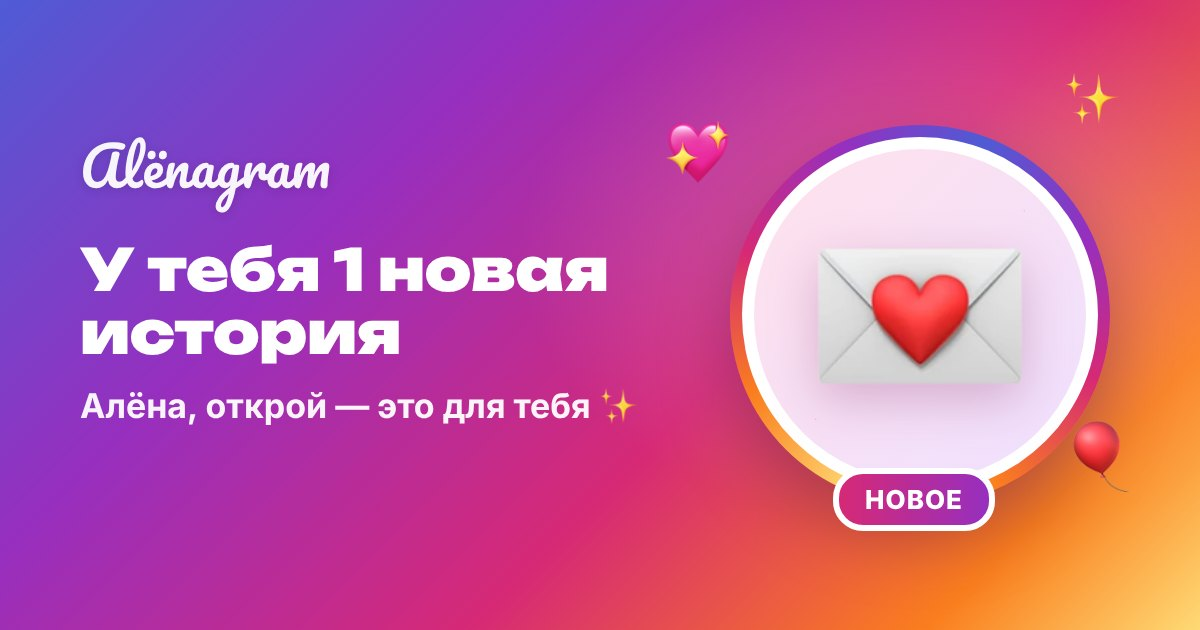
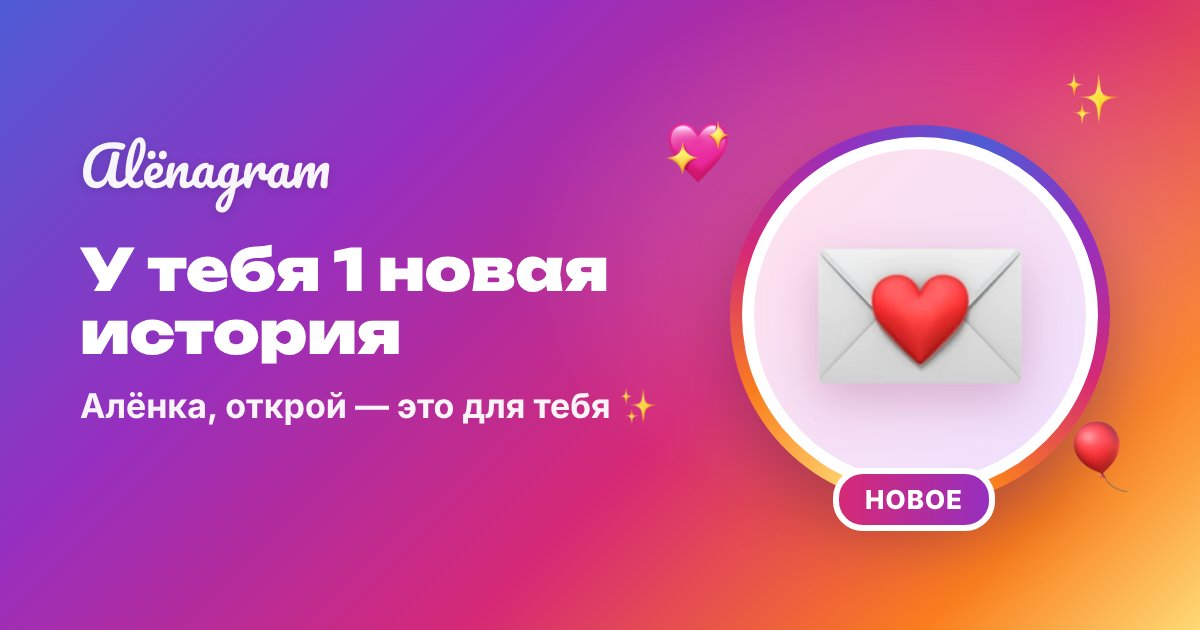
Use the name «Алёнка» everywhere on the site
Rename the birthday girl from «Алёна» to «Алёнка» in all visible texts:
config name and genitive form (lock screen, profile, intro, poll,
envelope), the letter greeting, page title, link-preview description and
the preview image, and the @alenka username. The real photo folder name
used by the Windows script stays unchanged.

Claude-Session: https://claude.ai/code/session_01TmmNb3kFXYRSt1fpxtiKNa

Changed region(s): [[0.1233, 0.6032, 0.555, 0.6937]]

diff --git a/index.html b/index.html
@@ -10,13 +10,13 @@
   <meta name="mobile-web-app-capable" content="yes">
   <meta name="apple-mobile-web-app-status-bar-style" content="black-translucent">
   <meta name="apple-mobile-web-app-title" content="Alёnagram">
-  <title>Алёна, с днём рождения! 🎂</title>
+  <title>Алёнка, с днём рождения! 🎂</title>
   <meta name="description" content="У тебя новая история 💌">
 
   <!-- Превью ссылки в Telegram/WhatsApp. Если адрес сайта другой — поменяй ссылку на картинку -->
   <meta property="og:type" content="website">
   <meta property="og:title" content="У тебя 1 новая история 💌">
-  <meta property="og:description" content="Алёна, открой — это для тебя ✨">
+  <meta property="og:description" content="Алёнка, открой — это для тебя ✨">
   <meta property="og:image" content="https://1harios.github.io/alenalove/assets/og.jpg">
   <meta property="og:image:width" content="1200">
   <meta property="og:image:height" content="630">

diff --git a/js/config.js b/js/config.js
@@ -6,9 +6,9 @@
  */
 window.CONFIG = {
   // Именинница
-  name: 'Алёна',
-  nameGenitive: 'Алёны', // «день рождения у Алёны»
-  username: 'alena', // ник в «профиле»
+  name: 'Алёнка',
+  nameGenitive: 'Алёнки', // «день рождения у Алёнки»
+  username: 'alenka', // ник в «профиле»
   birthday: '1995-10-11', // дата рождения (ГГГГ-ММ-ДД)
   avatar: '', // фото для аватарки, например 'photos/01.jpg'. Пусто = первое фото из js/photos.js
 
@@ -84,7 +84,7 @@ window.CONFIG = {
   ],
 
   // Письмо от Саши (переносы строк сохраняются)
-  letter: `Алёна, моя любимая! ❤
+  letter: `Алёнка, моя любимая! ❤
 
 С днём рождения! 🎂
 

diff --git a/js/slides.js b/js/slides.js
@@ -64,7 +64,7 @@
       render: function () {
         return '<div class="bg-anim"></div>' + floaters(['💌', '✨', '💖', '🎈', '🌸', '💫', '💕'], 10) +
           '<div class="sl sl--center">' +
-            '<div class="stk-mention intro__mention pop-in" style="--d:.15s;--r:-6deg"><b>@' + esc(C.username || 'alena') + '</b></div>' +
+            '<div class="stk-mention intro__mention pop-in" style="--d:.15s;--r:-6deg"><b>@' + esc(C.username || 'alenka') + '</b></div>' +
             '<h1 class="t-neon intro__name rise" style="--d:.35s">' + esc(C.name) + ',</h1>' +
             '<p class="t-hl rise" style="--d:.75s"><span>у меня для тебя</span><br><span>кое-что есть…</span></p>' +
             '<div class="intro__emoji rise" style="--d:1.15s"><span class="bob">🤫</span></div>' +

diff --git a/js/app.js b/js/app.js
@@ -133,7 +133,7 @@
     var since = A.since(A.metAt);
     var hasPhotos = A.photos.length > 0;
     var av = hasPhotos || C.avatar || A.hasSpecial('avatar');
-    var user = C.username || 'alena';
+    var user = C.username || 'alenka';
     var from = C.fromUsername || 'sasha';
 
     var hl = HIGHLIGHTS.filter(function (h) { return A.stories.indexOf(h.id) >= 0; }).map(function (h) {
@@ -238,7 +238,7 @@
 
   function buildFeed() {
     var fv = $('#feedView');
-    var user = C.username || 'alena';
+    var user = C.username || 'alenka';
     var av = A.photos.length > 0 || C.avatar || A.hasSpecial('avatar');
     var caps = C.photoCaptions || [];
     var info = A.birthdayInfo();

diff --git a/README.md b/README.md
@@ -1,16 +1,16 @@
-# Alёnagram 🎂 — поздравление для Алёны
+# Alёnagram 🎂 — поздравление для Алёнки
 
-Мобильный сайт-сюрприз ко дню рождения Алёны (11.10.1995) в стиле историй Instagram.
+Мобильный сайт-сюрприз ко дню рождения Алёнки (11.10.1995) в стиле историй Instagram.
 Поздравляет Саша ❤
 
 ## Что внутри
 
 Сначала открывается **экран блокировки** (обои — её фото) с уведомлением «sasha опубликовал историю специально для тебя 💌».
-Нажатие на уведомление открывает **истории**, после них можно погулять по **профилю** Алёны.
+Нажатие на уведомление открывает **истории**, после них можно погулять по **профилю** Алёнки.
 
 | № | История | Что происходит |
 |---|---------|----------------|
-| 1 | Вступление | «Алёна, у меня для тебя кое-что есть…» |
+| 1 | Вступление | «Алёнка, у меня для тебя кое-что есть…» |
 | 2 | С днём рождения! | Полароид с воздушным поцелуем, конфетти, шарики, наклейка с возрастом |
 | 3 | Опрос | «Кто сегодня самая красивая?» — оба варианта набирают по 100% 😄 |
 | 4 | Как всё началось | Скриншот из IMVU в неоновом «телефоне» + ачивка «Встретить ту самую» 🏆 |
@@ -36,7 +36,7 @@
 ## 🔒 Фото и видео зашифрованы — отправляй ссылку с ключом
 
 Репозиторий публичный, поэтому фото и видео лежат в папке `media/` **в зашифрованном виде**: открыть их на GitHub нельзя.
-Сайт расшифровывает их прямо в телефоне Алёны по ключу, который стоит в ссылке после `#k=`:
+Сайт расшифровывает их прямо в телефоне Алёнки по ключу, который стоит в ссылке после `#k=`:
 
 ```
 https://1harios.github.io/alenalove/#k=КЛЮЧ
@@ -73,7 +73,7 @@ https://1harios.github.io/alenalove/#k=КЛЮЧ
 **GitHub Pages (бесплатно):**
 1. Репозиторий → **Settings → Pages**.
 2. *Source*: **Deploy from a branch**, ветка `claude/interactive-birthday-site-alena-dgknfx` (или `main`, если переименуешь), папка **/ (root)** → **Save**.
-3. Через 1–2 минуты сайт будет по адресу **https://1harios.github.io/alenalove/** — Алёне отправляй его **с ключом** (`#k=…`).
+3. Через 1–2 минуты сайт будет по адресу **https://1harios.github.io/alenalove/** — Алёнке отправляй его **с ключом** (`#k=…`).
 
 Превью ссылки в Telegram/WhatsApp («У тебя 1 новая история 💌») берётся из `assets/og.jpg` — личных фото в нём нет.
 Если адрес сайта другой — поменяй ссылку в `index.html` (строка `og:image`). Поисковики сайт не проиндексируют (стоит `noindex`).

diff --git a/photos/README.md b/photos/README.md
@@ -1,6 +1,6 @@
 # 📸 Папка для фото без шифрования
 
-Сейчас фото и видео Алёны лежат в папке `media/` в зашифрованном виде (см. README.md в корне) — так их не видно посторонним в публичном репозитории.
+Сейчас фото и видео Алёнки лежат в папке `media/` в зашифрованном виде (см. README.md в корне) — так их не видно посторонним в публичном репозитории.
 
 Эта папка нужна, только если добавлять фото скриптом `add-photos.bat`: он кладёт сюда уменьшенные копии **без шифрования**
 и заменяет список в `js/photos.js`. Если хочешь сохранить фото закрытыми — лучше пришли новые фото Claude.
